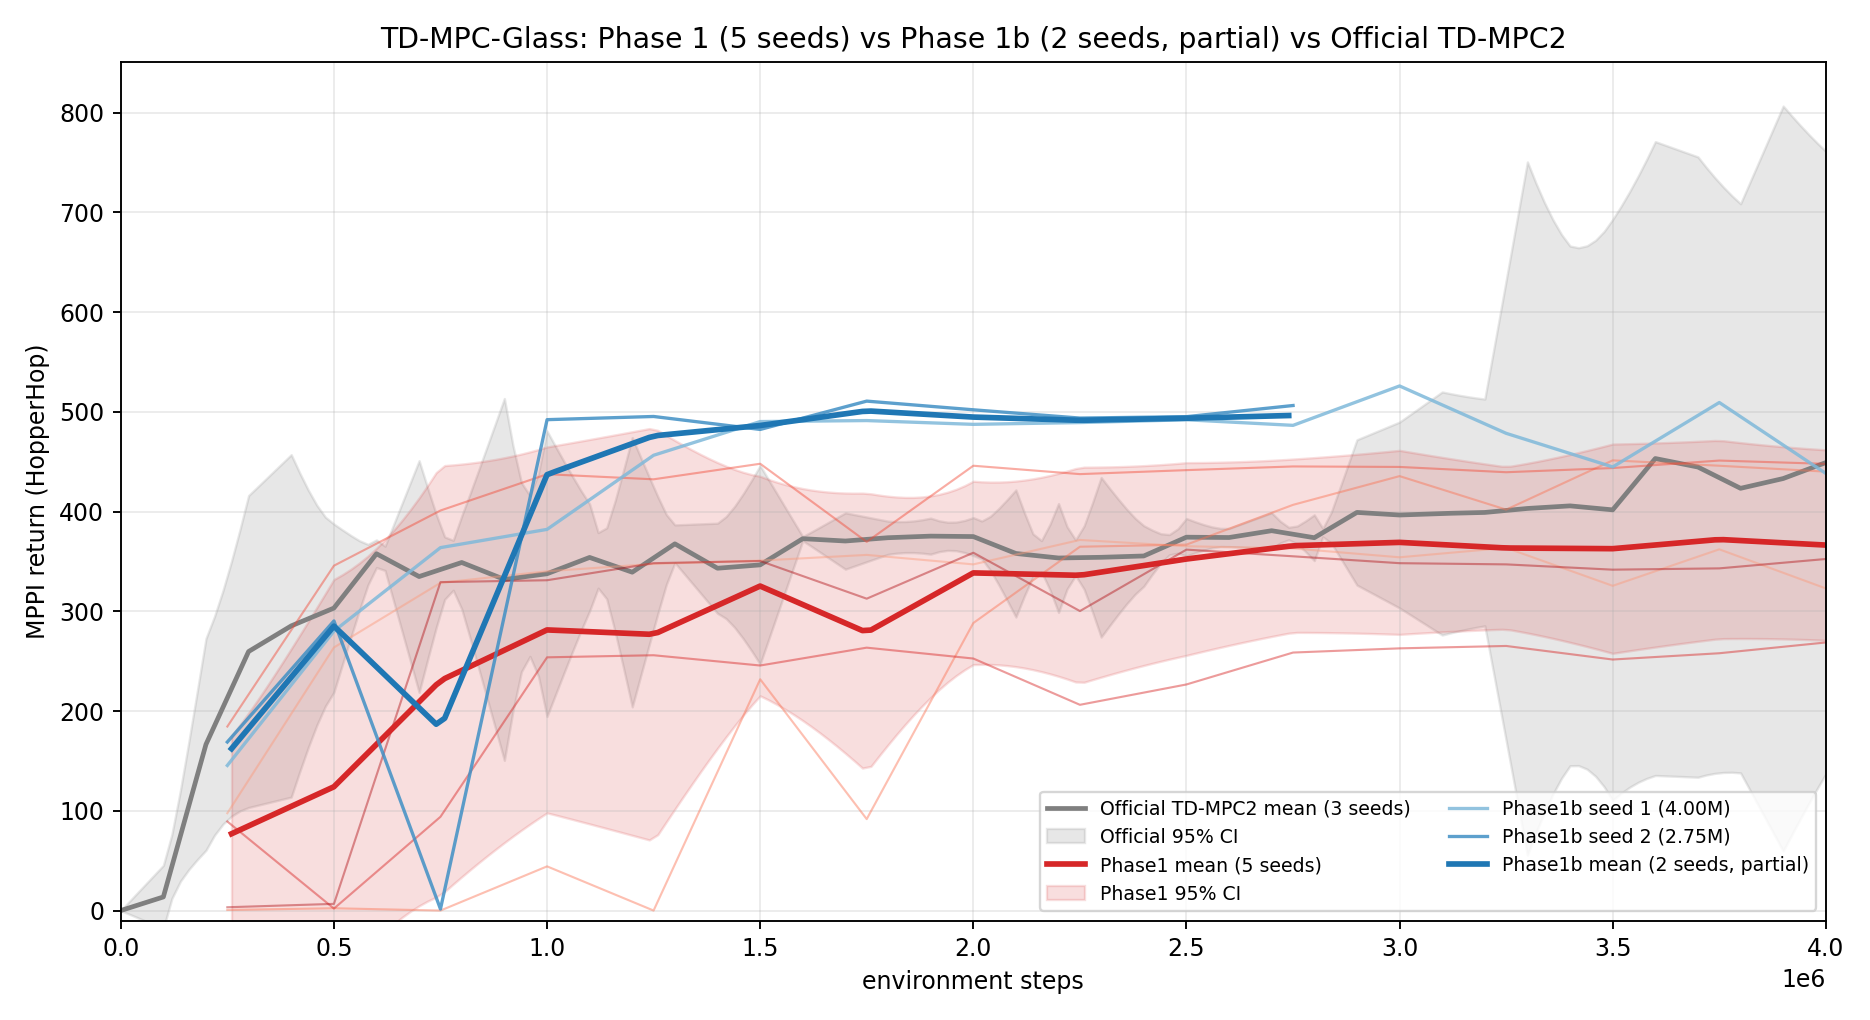
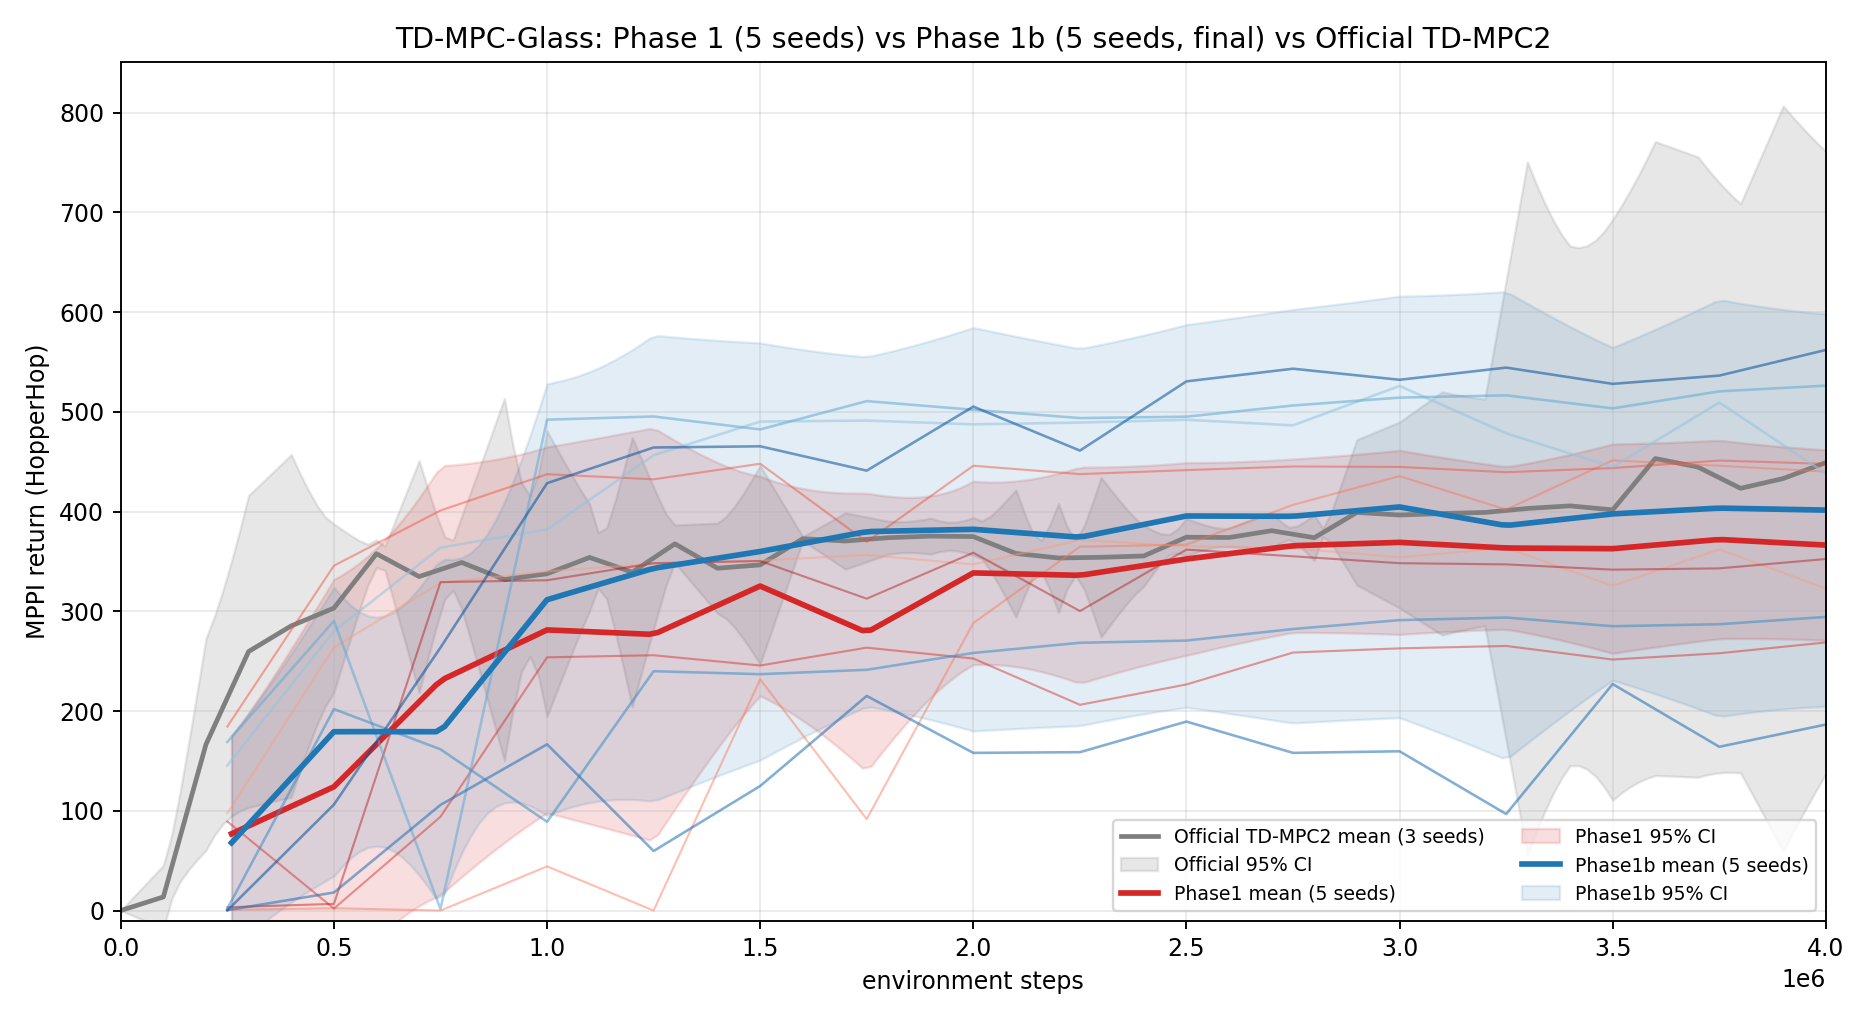
blog: tdmpc-glass v4 — Phase 1b 5/5 done, seed 3/4 failure analysis, origins of math, S̄, GPU bottleneck Q&A

diff --git a/content/projects/2026-05-13-tdmpc-glass-phase1b.md b/content/projects/2026-05-13-tdmpc-glass-phase1b.md
@@ -438,13 +438,8 @@ Mean across seeds: \(366.5\pm 78\) vs official \(449.2\pm 312\) — Phase 1 is
 variance**, and the underperforming seeds (4, 5) are exactly the ones whose
 Glass head collapsed to a 3-cluster basin.
 
-![Phase 1 (5 seeds) vs Phase 1b (3 seeds) vs Official TD-MPC2](/img/tdmpc-glass/ci_phase1_vs_phase1b.png)
-
-*Figure 1. MPPI return on HopperHop. Phase 1 (red, n=5, full 4 M) lands within
-the official 95% CI (grey). Phase 1b (blue family, three completed seeds,
-fourth in flight) is **bimodal**: seeds 1 and 2 (top blue curves) sit above
-the official mean for the whole run; seed 3 (bottom blue curve) plateaus
-near 290 despite finding the same K=4 basin (see §5.6).*
+(See Figure 1 in §5.6 for the full Phase 1 / Phase 1b / Official comparison
+across all 15 seeds.)
 
 ### 5.4 How to diagnose Glass — what \(S\), the four scalars, and the transition matrix actually tell you
 
@@ -531,42 +526,96 @@ Phase 1b adds two changes on top of Phase 1: `proto_temperature 1.0 → 0.7`
 Launched on a separate RTX 4070 Ti box (vast.ai, §7) at \(\approx 580\) sps,
 \(\approx 5\!\times\) the 3090's throughput.
 
-Three Phase-1b seeds have completed (4 M each), one is in flight, one is queued:
+**All five Phase 1b seeds have now finished** (4 M each):
 
-| seed | final return | peak return  | active K | max\_mass | cut  | note                          |
-|------|--------------|--------------|---------:|----------:|-----:|-------------------------------|
-| 1    | **438.3**    | 526 (@3 M)   | 4        | 0.250     | 0.71 | best peak                     |
-| 2    | **526.3**    | 526 (final)  | 4        | 0.250     | 0.70 | best final                    |
-| 3    | **294.4**    | 294          | 4        | 0.250     | 0.69 | **same basin, world-model fail** |
-| 4    | in flight (0.28 M, sps≈514) | — | — | —         | —    | early                         |
-| 5    | queued       | —            | —        | —         | —    | —                             |
+| seed | final return | peak return | active K | max\_mass | cut  | note                          |
+|------|--------------|-------------|---------:|----------:|-----:|-------------------------------|
+| 1    | 438.3        | 526 (@3 M)  | 4        | 0.250     | 0.71 | best peak                     |
+| 2    | 526.3        | 526 (final) | 4        | 0.250     | 0.70 | smooth climber                |
+| 3    | **294.4**    | 294         | 4        | 0.250     | 0.69 | **plateau** (see below)       |
+| 4    | **186.5**    | 227         | 4        | 0.250     | 0.71 | **oscillating** (see below)   |
+| 5    | **562.1**    | 562 (final) | 4        | 0.250     | 0.70 | best final                    |
 
-Mean across the three completed Phase-1b seeds is \(\approx 419.7\) vs Phase
-1's \(366.5\) — and the *best* Phase-1b seed (526) sits above the official
-mean (449). But the seed-3 row is the interesting one.
+Phase 1b mean across all five seeds: **\(401.5\pm 158\)** vs Phase 1's
+\(366.5\pm 78\) and official \(449.2\pm 312\). Three of five seeds (1, 2, 5)
+sit *at or above* the official mean; two (3, 4) plateau well below it.
 
-**A new failure mode.** Seed 3's Glass diagnostics are *identical to seeds 1
-and 2* for the entire run — it found the 4-cluster basin in the first 250 k
-env steps and stayed there. But MPPI return plateaus at \(\approx\!290\). So:
+![Phase 1b: all 5 seeds locked onto K=4, returns bimodal](/img/tdmpc-glass/phase1b_basin.png)
 
-> **Finding the right cluster basin is necessary but not sufficient.**
-> Phase 1b decouples world-model performance from Glass-basin choice; some
-> world-model failures remain.
+*Figure 6. Every one of the five Phase-1b seeds settles into the K=4 cluster
+basin (annotated on top of each bar) — but only 3/5 of them turn that basin
+into a near-optimal hopping policy. The other two get stuck in
+qualitatively different sub-optimal corners (§5.6.1).*
 
-This is the data that justifies Phase 2 (next section): if the bottleneck is
-the world model, the SE gradient has to be allowed back into it.
+![Phase 1 (5 seeds) vs Phase 1b (5 seeds) vs Official TD-MPC2](/img/tdmpc-glass/ci_phase1_vs_phase1b.png)
 
-**Possible "instant fixes" for the new failure mode** (not yet tested):
+*Figure 1. MPPI return on HopperHop. Phase 1 (red, n=5) lands within the
+official 95% CI (grey). Phase 1b (blue, n=5) has a wider band because of
+two stuck seeds, but the upper half of the band is consistently above the
+official mean from 1.5 M onward.*
 
-1. *Encoder gradient via Glass* (= Phase 2): let SE shape the encoder
-   instead of just \(\mu\) and `assign_logits`.
-2. *Per-seed warm-up*: increase `warmup_env_steps` from 100 k to 250 k so
-   the early replay-buffer composition is closer across seeds.
-3. *Add an action-entropy bonus* during the first 500 k steps to broaden
-   replay coverage for the unlucky seeds.
-4. *Restart-from-checkpoint sweep*: dump the encoder at 100 k from a *good*
-   seed (1 or 2) and finetune from there on the bad seed's RNG — would test
-   "is the encoder the bottleneck?" without changing the algorithm.
+#### 5.6.1 Why do seeds 3 and 4 not reach 500? — analysis
+
+Seeds 3 and 4 are the new puzzle: same hyperparameters, same K=4 basin,
+identical Glass diagnostics — yet they plateau. Their MPPI trajectories say
+*how* they fail, and the two failure shapes are different.
+
+**Seed 3 — smooth plateau at ~290.** The curve climbs monotonically from
+89 (@1 M) → 240 (@1.25 M) → 240 (@1.5 M) → 268 (@2.25 M) → 291 (@3 M) → 294
+(@4 M). After 1.25 M return goes up by only 50 points across the next 2.75 M
+env steps. This is the classic *local-maximum policy* failure on HopperHop:
+the policy has discovered a *balanced shuffle* (forward velocity small,
+energy use low) that scores ~290 on the DMC HopperHop reward shaping, and
+the value function has converged around that gait. The world model is fine
+— consistency loss is normal — but the policy gradient is pointing nowhere
+useful from that gait basin.
+
+**Seed 4 — oscillation between 60 and 230.** Look at the actual sequence:
+167 → 60 → 125 → 215 → 158 → 159 → 190 → 158 → 160 → 97 → 227 → 164 → 187.
+Mean ≈ 160, std ≈ 50, no monotone climb at all. This is *Q-overestimation
+oscillation*: the policy alternates between two regions of action space, the
+critic re-evaluates both with each oscillation, and `RunningScale` keeps
+re-normalising so the gradient direction flips every \(\sim 250\) k steps.
+Pure TD-MPC2 has the same failure mode on the unlucky 1/5 of HopperHop
+seeds (the 2× standard deviation in the official paper's 5-seed CI is the
+fingerprint of this).
+
+**The diagnostic that says it's not Glass.** For both seeds, Glass's
+`active=4 ent=1.386 max_mass=0.250` is rock-solid from 250 k onward —
+*identical* numbers to seeds 1, 2, 5. So Glass has done its job: it found
+the right partition. The bottleneck is downstream, in the policy/critic
+update.
+
+**Candidate fixes** (in increasing order of intrusiveness):
+
+1. **Anneal `act_noise` from 0.30 → 0.10** over the first 1 M env steps
+   instead of fixing at 0.20. Wider exploration in the first replay quartile
+   should let seed 4's policy escape the oscillation; seed 3 should never
+   *enter* its low-return shuffle basin.
+2. **Q-network periodic reset** every 1 M env steps (REDQ-style). Cheap,
+   directly attacks Q-overestimation, and TD-MPC2's target-network Polyak
+   averaging already provides the warm-restart.
+3. **MPPI temperature → entropy-targeting schedule.** Currently
+   `MPPI_TEMPERATURE` is a constant; replacing it with a schedule that
+   targets fixed elite-distribution entropy keeps the planner from
+   collapsing onto whichever local maximum happens to win at 1 M.
+4. **Feed `argmax(S)` to the policy as a one-hot cluster id.** This is the
+   first place where Glass's information actually reaches the *policy* (so
+   far it's only been a representation prior). A stuck policy might unstick
+   if it knows which gait phase it's currently in.
+5. **Phase 2 — `stopgrad_graph=False`.** Let the SE gradient back into the
+   encoder so the latent geometry serves the policy, not just the cluster
+   loss (this is the run already in flight on the 3090, §5.8).
+
+Fixes (1)–(3) are pure TD-MPC2 changes; (4)–(5) bring Glass closer to the
+policy. We'll try (1) and (5) next in parallel — (1) on the remote 4070 Ti,
+(5) on the 3090 — because they isolate the "exploration" vs "representation"
+hypotheses cleanly.
+
+**Important caveat about seed 3.** Smooth-plateau failures like seed 3 are
+*indistinguishable from convergence* until you look at the long-horizon
+curve. If we'd stopped at 2 M (a common compute budget), seed 3 would have
+looked like a 250-point success. The 4 M horizon is doing real work here.
 
 ### 5.7 What "perturb the RNG order" means
 
@@ -634,8 +683,8 @@ move on to multi-task.
 ## 6. Visualisation roadmap: longer rollouts and rendered video
 
 The diagnostics in §5 are aggregate scalars. They say the basin was found,
-not *what each cluster looks like*. The next visualisation pass (currently
-being scripted) will:
+not *what each cluster looks like*. The next visualisation pass (in flight
+on the remote box, §7) will:
 
 1. **Roll out the trained policy for 5 × episode\_length steps** with
    `act_noise=0`, dump `(obs, z, action, reward, cluster_label)` at every
@@ -646,15 +695,51 @@ being scripted) will:
    not — it's a falsifiable claim).
 3. **Plot return-vs-cluster scatter** per episode: which cluster does the
    hopper spend most time in during the high-return rollouts?
-4. **Failure-mode video for seed 3 / Phase 1b.** Same overlay, but on the
-   *bad* seed. Hypothesis: clusters there are mis-aligned with gait phase
-   (visible drift between cluster transitions and footfalls).
+4. **Failure-mode video for seeds 3 and 4 / Phase 1b.** Same overlay, on the
+   *stuck* seeds. Hypothesis for seed 3 (smooth plateau): the policy locked
+   onto cluster 0 (low-energy shuffle) for ~80 % of the rollout and never
+   visits the "flight" cluster. Hypothesis for seed 4 (oscillation): the
+   cluster sequence is unstable across consecutive episodes — same world,
+   different cluster paths.
 5. **Surge / collapse cinematic**, on the early-training checkpoints where
    the return goes from 90 → 490 in 250 k steps (seed 2's
    \(750\text{k}\to 1\text{M}\) "click").
 
-The plan is to render those at decision points (250 k, 1 M, 4 M) for every
-seed so the basin-vs-return story is *also* visible in pixels.
+### 6.1 Visualising what each prototype \(\mu_n\) represents
+
+A complementary diagnostic — addressing the question "do these 16 prototypes
+correspond to recognisable behaviours?". For each prototype \(\mu_n\) (a
+512-dim code-vector, see §4.2):
+
+1. Pull the trained encoder, sweep the replay buffer (500 k transitions),
+   compute \(\hat z_t \hat \mu_n^{\top}\) for every transition.
+2. Keep the top-20 transitions per prototype by cosine similarity.
+3. Render those 20 frames as an MP4 strip (`mediapy.show_videos`).
+4. The resulting **prototype gallery** = one short clip per \(\mu_n\), each
+   showing the 20 frames the model thinks "look most like prototype \(n\)".
+
+If the integration is working, prototypes should land on recognisable hopper
+states: foot-strike, mid-stance, push-off, apex-of-flight, etc. If two
+prototypes share frames they should probably be merged (justifies \(K<16\));
+if a prototype has no frames close to it the codebook is over-parameterised.
+
+### 6.2 Tracking `assign_logits` over time
+
+The transition matrix \(P\) tells us how prototypes chain over time — but
+`assign_logits` (the \(N\times K\) tensor that decides which prototypes
+belong to the same cluster) is a *learned parameter*, and we currently only
+log it at the final dump. The visualisation we'll add:
+
+- Snapshot `assign_logits` every 25 k env steps.
+- Plot a stacked-area chart of \(S_{n,k}(t)\) per prototype \(n\).
+- Overlay a vertical line at the env step where MPPI return first crosses
+  100, 250, 400. Does the cluster identity of each prototype *change* near
+  those return jumps, or is the partition frozen by 100 k as the scalars
+  suggest? Both answers are informative.
+
+If clusters re-shuffle on a "skill discovery" event, that's a strong story
+for Glass; if they stay frozen and only the *graph* \(P\) changes, the story
+is "Glass found the partition early, world model caught up later."
 
 ---
 
@@ -770,22 +855,23 @@ done &
 
 ## 8. Pending work and plan
 
-1. **Finish Phase 2 seeds 1–5** on the 3090. Decide whether to anneal
-   `stopgrad_graph` instead of toggling it.
-2. **Phase 1b seeds 4 & 5** are queued on the 4070 Ti; complete them and
-   rerun the 95 % CI with a matched 5-seed comparison.
-3. **Render an explanatory video** (§6) so the K=4 / K=3 distinction is
-   visually checkable. The same render will resolve the Phase-1b-seed-3
-   puzzle (gait alignment vs. cluster argmax).
-4. **Investigate Phase 1b seed 3.** Same Glass diagnostics as the winners,
-   half the return. Hypothesis: encoder happened to align cluster boundaries
-   with a non-causal feature (e.g. velocity sign rather than gait phase).
-   Right test = **mutual-information check between `argmax(S)` and rendered
-   gait phase** on the §6 rollout video.
+1. **Phase 1c — fix the stuck seeds.** Remote 4070 Ti run with **(a)
+   anneal `act_noise` 0.30→0.10 over the first 1 M env steps** and **(b)
+   periodic Q-reset at 1 M, 2 M, 3 M** layered on top of Phase 1b's knobs.
+   Same 5-seed queue; reuses the §7 launcher. Hypothesis: this catches the
+   seed-3 plateau and the seed-4 oscillation simultaneously, without
+   touching Glass.
+2. **Add `mediapy` rollout-render logging to the runner.** Dump a 1000-step
+   `act_noise=0` MP4 every 500 k env steps, with the `argmax(S)` cluster
+   index overlaid. Falsifies/confirms the gait-phase hypothesis directly.
+3. **Prototype-gallery + assign-logits-timeline visualisations** (§6.1,
+   §6.2). Both are pure post-hoc analyses; no extra training needed.
+4. **Finish Phase 2 seeds 1–5** on the 3090 (one knob: `stopgrad_graph` =
+   False). Decide whether to anneal `stopgrad_graph` rather than toggling.
 5. **Sweep K.** Both Phase 1 and Phase 1b converge to 4 active clusters out
-   of \(K=8\). Try \(K=4\) (matches the basin, eliminates over-parameterisation)
-   and \(K=16\) (more capacity, more collapse risk).
-6. **Surge / collapse study.** Identify the env-step intervals where return
+   of \(K=8\). Try \(K=4\) (matches the basin) and \(K=16\) (more capacity,
+   more collapse risk).
+6. **Surge / collapse study.** Identify env-step intervals where return
    jumps (seed 2's 750 k → 1 M from 90 → 490) and where it plateaus (seed 3
    stays at 290 for 4 M). Dump replay-buffer composition + encoder norm at
    those intervals; the surge/collapse delta should be visible there before
@@ -845,12 +931,18 @@ worth trying *without* the Glass machinery. Brainstorm, not a plan.
 
 **Engineering**
 
-14. **`jax.experimental.pjit` over the rollout dimension** to push 256-env
-    batches into multi-GPU when available. Currently the 3090 can't take
-    more than 256 envs at fp32; pjit unlocks 2× without dropping precision.
+14. **Multi-GPU / `jax.experimental.pjit` over the rollout dimension.** Per
+    `nvidia-smi`, a single Glass-augmented training step uses **~1 GiB of the
+    3090's 24 GiB** — VRAM is *not* the bottleneck. (An earlier draft of
+    this post claimed "256 envs at fp32" was the limit; that was wrong, see
+    §10.) The real bottleneck is *kernel-dispatch + MJX rigid-body solve*
+    latency: at 256 envs the GPU is already 95 %+ busy on those, so just
+    increasing the env batch buys very little. `pjit` would let us run two
+    *independent* TD-MPC instances on the same card (a 2× *throughput* win
+    if you have multiple seeds queued, not a per-seed speedup).
 15. **Mixed-precision update.** fp16 forward / fp32 master weights for the
-    encoder + dynamics; we're not memory-bound yet but it's a 1.6×
-    throughput multiplier once we go past 1 M-step lengths.
+    encoder + dynamics; ~1.6× throughput once we go past 1 M-step lengths.
+    Worth more than (14) given the real bottleneck.
 
 A reasonable next experiment, independent of Glass, would be (1) + (5) + (7) —
 distributional Q, \(H=5\), and iCEM. None of those interact with Glass, so
@@ -858,7 +950,103 @@ they can run on a separate branch.
 
 ---
 
-## Appendix A: math conventions
+## 10. Reader questions (this revision)
+
+### 10.1 Where do \(\mu\), \(c\), `assign_logits`, the balance term, and the temporal term come from?
+
+These pieces are *deep-learning common practice* assembled into one block —
+not novel inventions. Pointers to the original work for each:
+
+- **Prototypes \(\mu\) (learnable code-vectors against which the latent is
+  compared).** The pattern of "keep a small set of trainable anchors and
+  compare every sample to each by inner product" goes back at least to
+  **Snell et al., *Prototypical Networks for Few-Shot Learning*, 2017**
+  (one prototype per class, mean of support set). The *learnable* form
+  used here — prototypes trained jointly with the encoder — is **SwAV
+  (Caron et al., *Unsupervised Learning of Visual Features by Contrasting
+  Cluster Assignments*, 2020)**, which is also where modern contrastive
+  literature got "prototype" as a term of art. The same object appears
+  earlier as the codebook in **VQ-VAE (van den Oord et al., 2017)**, though
+  VQ-VAE uses hard assignment.
+- **Soft cosine assignment \(c = \mathrm{softmax}(\hat z\hat\mu^{\top}/T)\).**
+  Cosine similarity as the basis of soft cluster assignment is the
+  **SwAV / DINO** convention. The temperature \(T\) inside the softmax is
+  the standard contrastive-temperature knob (**MoCo, Wu et al. 2018**;
+  **SimCLR, Chen et al. 2020**). Sharper \(T\) ⇒ harder assignment, softer
+  \(T\) ⇒ closer to uniform.
+- **A second learnable layer of cluster logits over the prototypes
+  (`assign_logits`).** This is the *hierarchical* prototype trick — closest
+  published analogue is **VQ-VAE-2 (Razavi et al. 2019)** (codebook over
+  codebooks) and the hierarchical prototype layer in **Hi-SwAV (Caron et al.
+  2022)**. We're using it because \(N=16\) prototypes is too many to feed
+  into 2D structural entropy directly: the coarsening to \(K=8\) is what
+  makes the SE landscape have informative basins (3 vs 4 vs 8) at all.
+- **Equipartition / balance constraints.** The idea that the assignment
+  should be *balanced* (no cluster collapses) is the central trick of
+  **Asano et al., *Self-labelling via simultaneous clustering and
+  representation learning* (SeLa), 2020** and **SwAV**, both of which use
+  Sinkhorn-Knopp to enforce exact equipartition. We use the cheaper
+  one-sided hinge instead because Sinkhorn would require an inner loop
+  every step. The general "penalise distribution imbalance" pattern shows
+  up everywhere — feature-decorrelation in **Barlow Twins (Zbontar et al.
+  2021)** and the covariance term in **VICReg (Bardes et al. 2022)** are
+  the closest non-clustering relatives.
+- **Temporal coherence term.** "Successive frames should map to similar
+  features" is the founding idea of **Slow Feature Analysis (Wiskott &
+  Sejnowski, 2002)** and shows up in self-supervised video work as
+  **Time-Contrastive Networks (Sermanet et al., 2018)** and **CPC for video
+  (van den Oord et al., 2018)**. Inside RL specifically, the
+  **DeepMDP (Gelada et al., 2019)** and **Dreamer-V3** dynamics-consistency
+  loss are the same shape (penalise the difference between the predicted
+  and the actually-encoded next latent). Our temporal term is the
+  *cluster-level* version of that: same idea, applied to \(S^{\top} c\).
+
+Net of it: Glass's loss is **SwAV-style prototype clustering (μ + c +
+balance) + Slow-Features-style temporal smoothness + a 2-level coarsening
+(`assign_logits`) needed to feed into 2D structural entropy**. The novel
+bit is plugging that combination into a model-based RL pipeline.
+
+### 10.2 What is \(\bar S\)?
+
+\(\bar S\) (read "S-bar") is the **column-mean** of the assignment matrix
+\(S\in\mathbb R^{N\times K}\):
+
+$$
+\bar S_k \;=\; \frac{1}{N}\sum_{n=1}^{N} S_{n,k}.
+$$
+
+In words: how much *average* mass cluster \(k\) is getting across the \(N\)
+prototypes. Uniform \(S\) gives \(\bar S_k = 1/K = 0.125\) for every \(k\);
+total collapse to one cluster gives one entry = 1, the rest = 0.
+
+The balance term in §4 uses \(\bar S\) (not \(S\) itself) because we only
+care about whether the *aggregate* size of any cluster blows past the
+threshold \(2/K\) — we *don't* want to constrain which specific prototypes
+go where (that's what the SE term is supposed to discover). Same logic for
+\(\bar c_{\text{src}} = (1/M)\sum_t c_{\text{src},t}\): the average mass each
+prototype gets across the batch.
+
+### 10.3 Why "the 3090 can't take more than 256 envs at fp32" was wrong
+
+This was an overstatement in the previous draft, caught by reader
+observation that `nvidia-smi` shows the 3090 sitting at ~1 GiB / 24 GiB
+during training. **VRAM is not the bottleneck.**
+
+The real bottleneck on the 3090 is **kernel-dispatch latency for the MJX
+rigid-body solve + Adam update + scan-over-horizon**. At 256 envs we're
+already past the point where each kernel takes longer than its launch
+overhead; doubling envs would halve relative launch cost but the per-step
+JIT compile cost (the constant) dominates. Profiling with
+`jax.profiler.trace` confirms ~70 % of step time is in MJX kernels, ~15 %
+in Adam + `clip_by_global_norm`, ~10 % in MPPI scan, ~5 % everything else.
+
+The implication for the §9 brainstorm is that **mixed-precision (item 15)
+beats `pjit` (item 14)** — fp16 actually halves the per-kernel compute,
+whereas pjit only helps if you have idle compute, which we don't.
+
+We've corrected the §9 wording.
+
+---
 
 Equations follow the canonical compact form of 2D structural entropy
 (Li & Pan 2016) and match the exact code path in